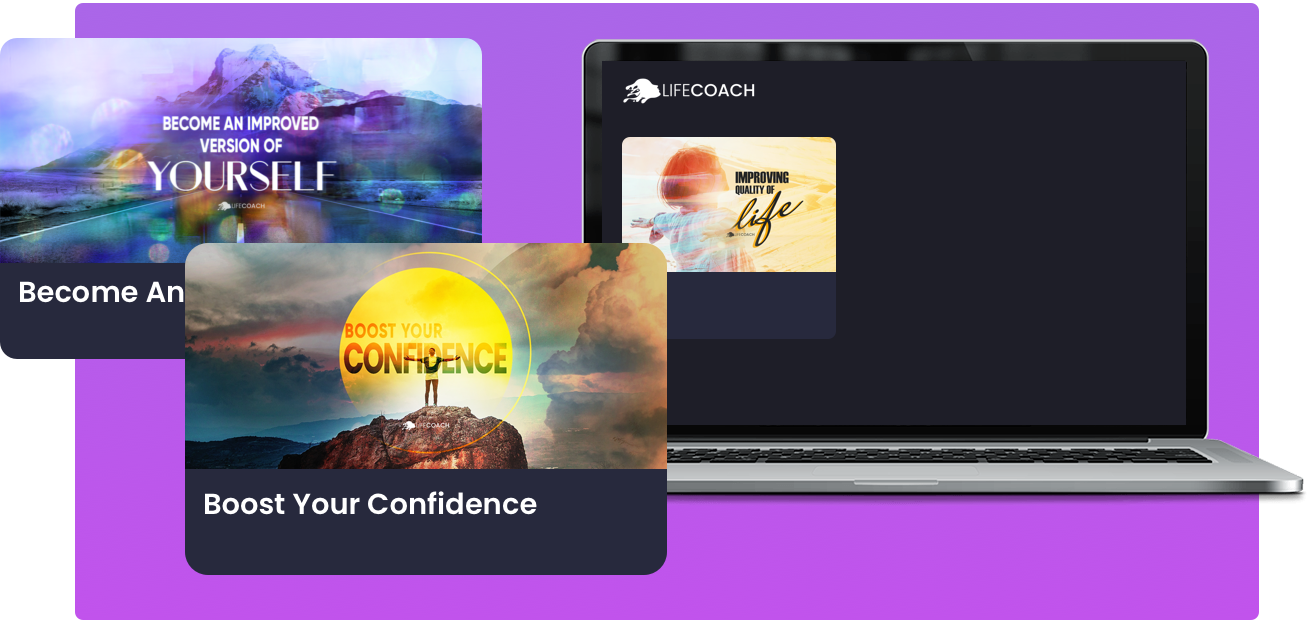
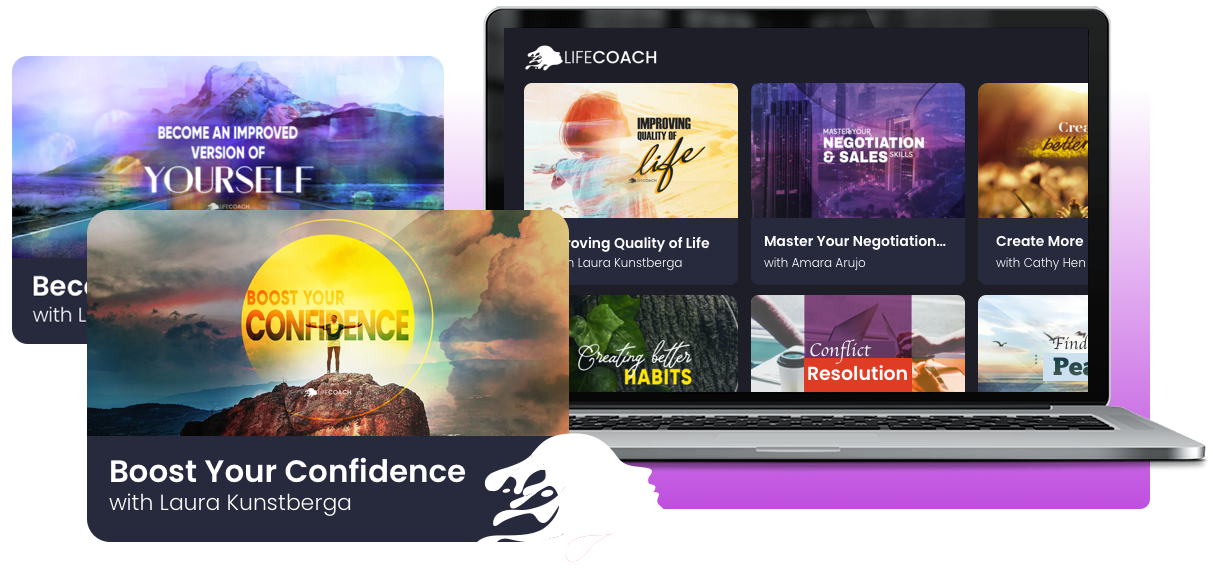
landing redesign

diff --git a/src/app/pages/home/home.component.html b/src/app/pages/home/home.component.html
@@ -54,7 +54,7 @@
                     </p>
                 </div>
                 <div class=" container text-center">
-                    <button class="btn btn-round btn-info">
+                    <button class="btn btn-round btn-default">
                         Browse Coaching
                     </button>
                 </div>
@@ -127,14 +127,14 @@
                         </h4>
                     </div>
                     <div class=" col-6">
-                        <img src="../../../assets/img/explore-coaching-on-lifecoach.png">
+                        <img src="../../../assets/img/explore-coaching-on-lifecoach.png" alt="Explore coaching programs and courses from Lifecoach Coaches">
                     </div>
                 </div>
 
                 <!-- step 2 row -->
                 <div class=" row">
                     <div class=" col-6">
-                        image
+                        <img src="../../../assets/img/connect-with-coaches-through-lifecoach-coaching.png" alt="Connect with Coaches through Lifecoach Coaching">
                     </div>
                     <div class=" col-6">
                         <h3 class=" display-4 mb-1 pt-5">
@@ -163,7 +163,7 @@
                         </h4>
                     </div>
                     <div class=" col-6">
-                        image
+                        <img src="../../../assets/img/get-online-video-coaching-through-lifecoach.png" alt="Get online video coaching through Lifecoach">
                     </div>
                 </div>
 
@@ -177,13 +177,13 @@
                             Enrol in an eCourse
                         </h4>
                         <div class=" text-center">
-                            <button class="btn btn-round btn-info">
+                            <button class="btn btn-round btn-default">
                                 Browse eCourses
                             </button>
                         </div>
                     </div>
-                    <div clas=" col-6">
-                        image
+                    <div class=" col-6">
+                        <img src="../../../assets/img/lifecoach-online-coaching-e-courses.png" alt="Lifecoach online coaching e-Courses">
                     </div>
                 </div>
 
